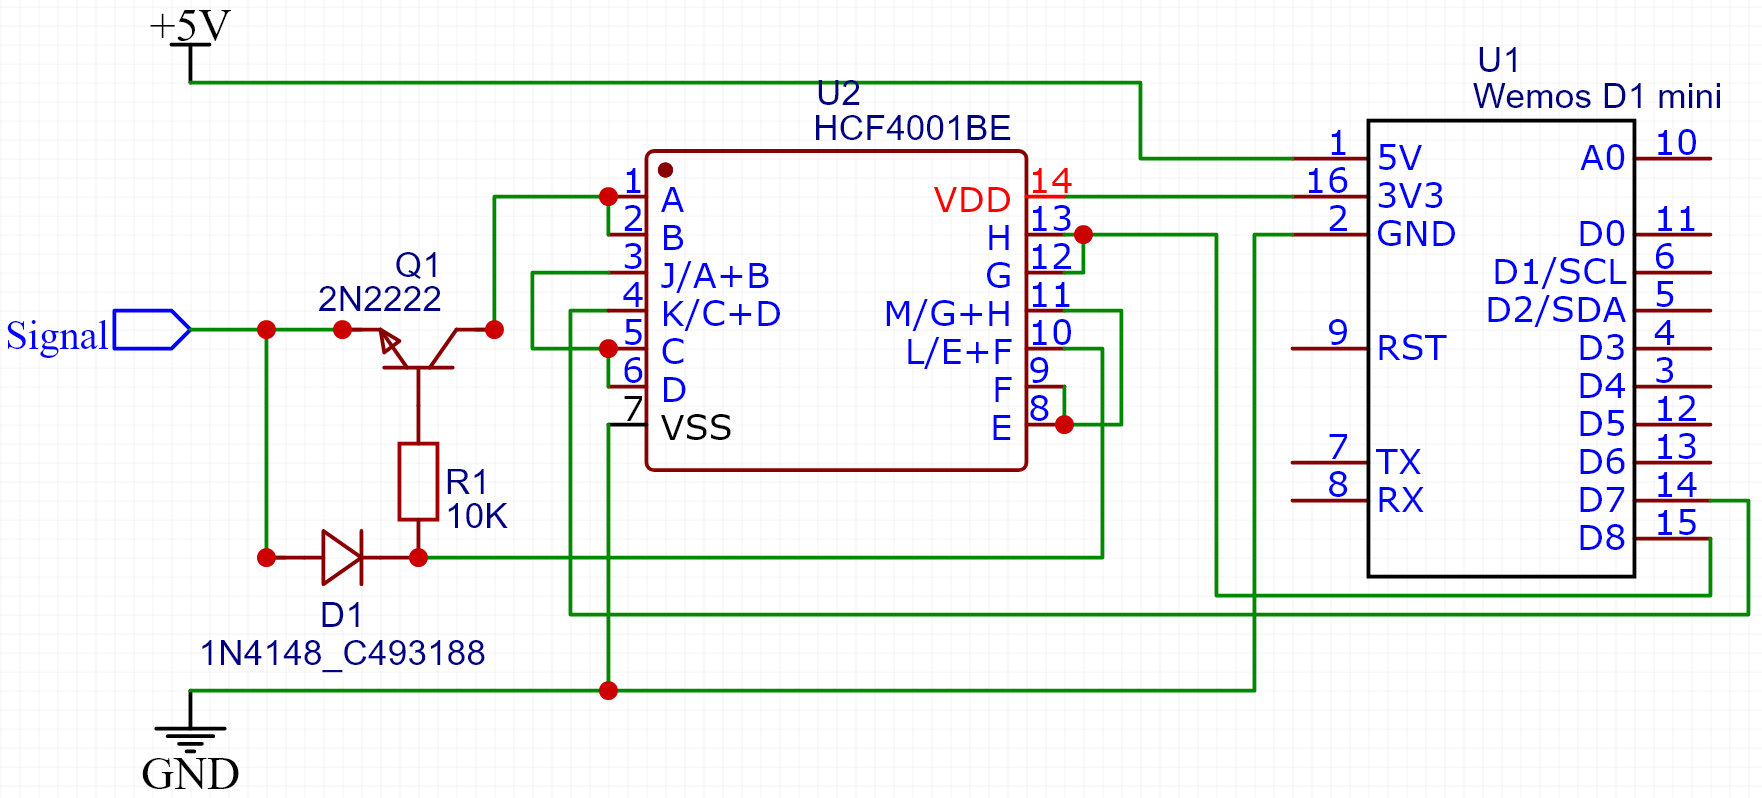
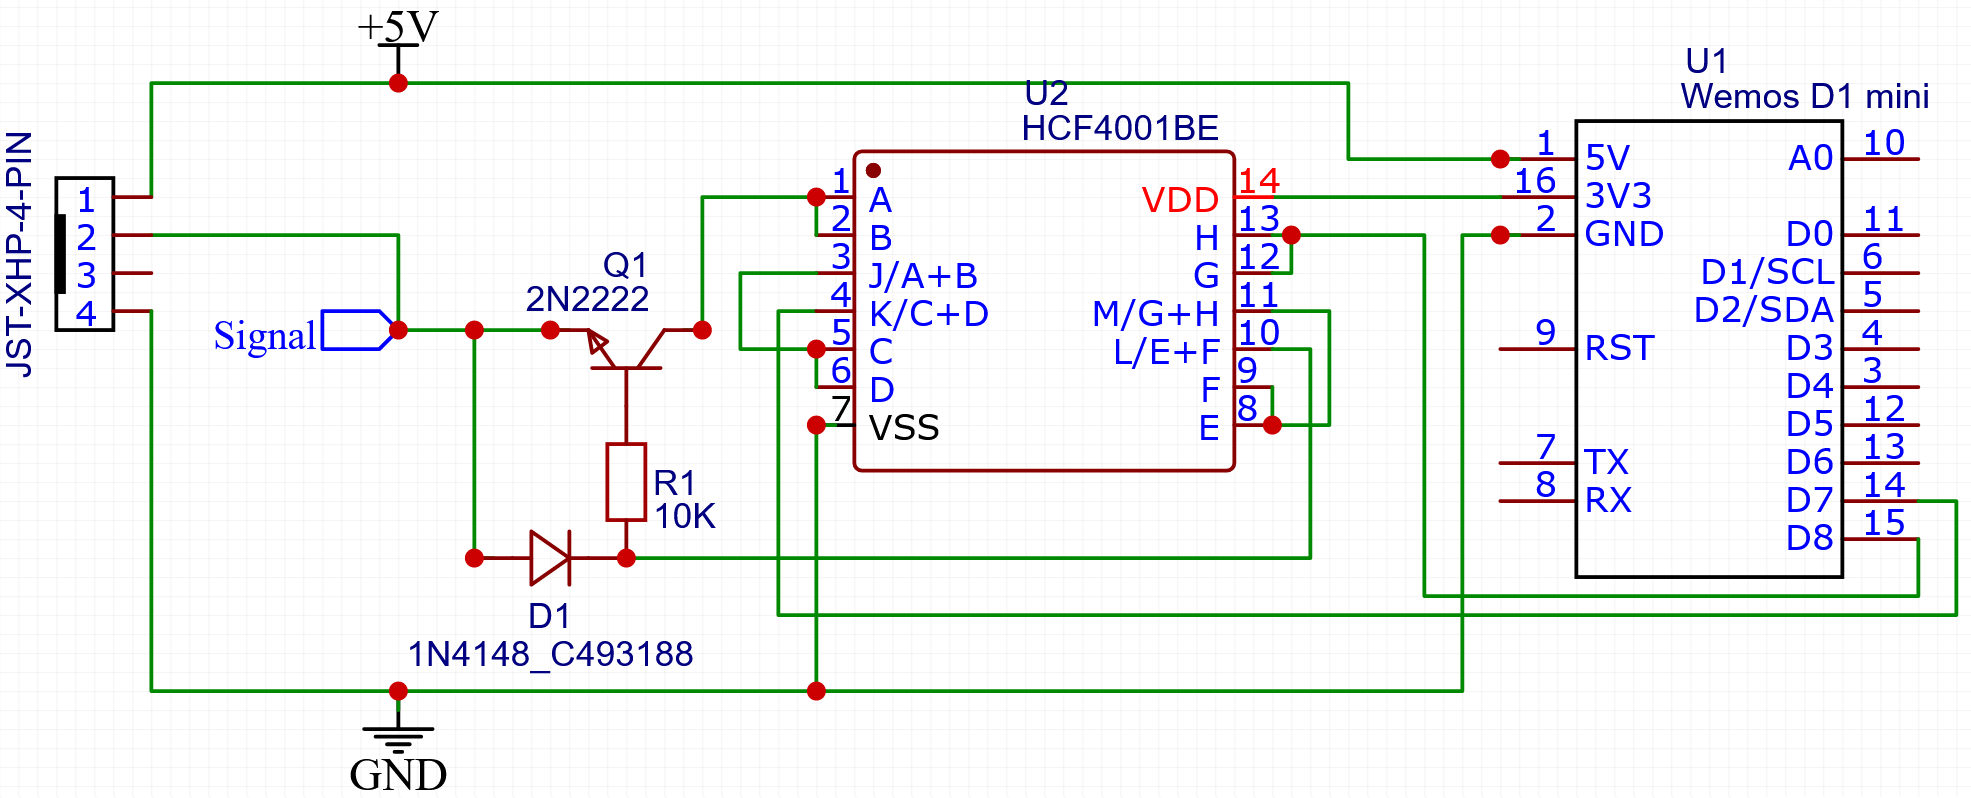
Uptade circuit
Add wire harness information

diff --git a/README.md b/README.md
@@ -6,7 +6,7 @@
 # Python2Ravelli:
 Add a way to drive Ravelli’s stove using python with an Esp8266 plugged on to the serial port..
 
-Add home automation on Ravelli's stoves that are using TOUCH remote control: ![image](./Documentation/img/touch_remote.jpg)
+Add home automation on Ravelli's stoves that are using TOUCH remote control: ![touch remote](./Documentation/img/touch_remote.jpg)
 
 This remote can be plugged on the stove, and this project is using the discussion protocole between the remote and the stove.
 So with this project, you will be able to replace the remote control, to drive the stove and collect more details in real time.
@@ -36,7 +36,7 @@ So with this project, you will be able to replace the remote control, to drive t
 3. `ElectronicTemperature` return incorrect temperature
 
 # Schematic:
-![image](./Documentation/img/Circuit.png?raw=true)
+![Circuit](./Documentation/img/Circuit.png?raw=true)
 
 ## BOM:
 ### Wire harness:
